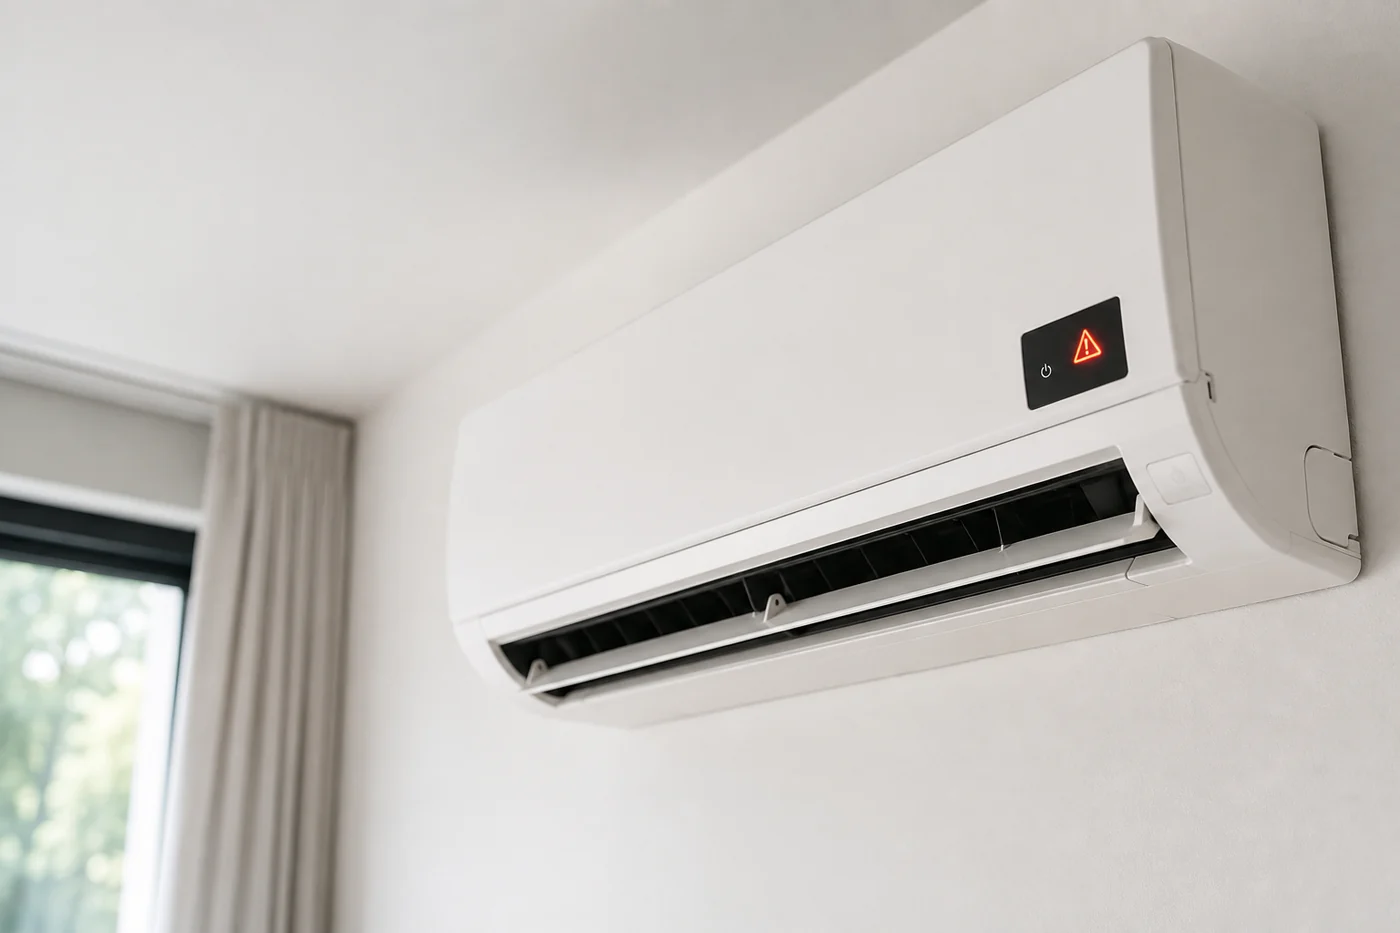
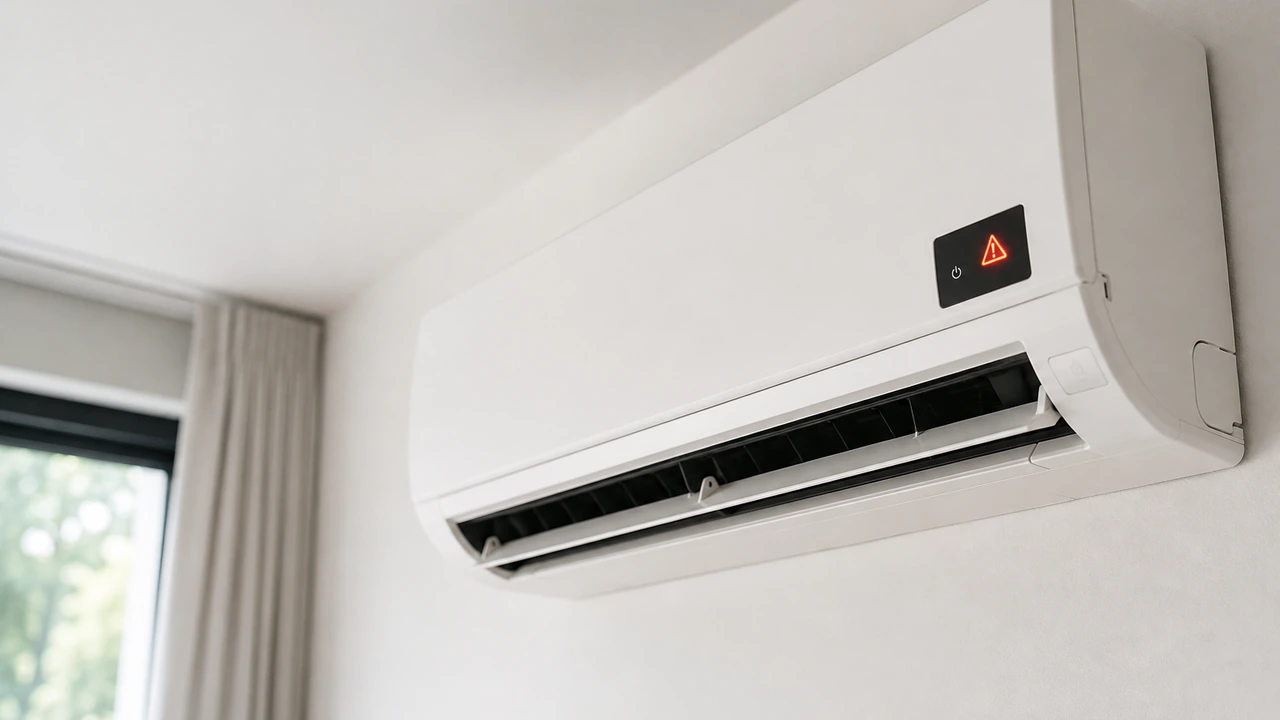
Add files via upload

diff --git a/index.html b/index.html
@@ -3,11 +3,11 @@
 <head>
   <meta charset="utf-8">
   <meta name="viewport" content="width=device-width, initial-scale=1">
-  <title>Airco installateur door heel Nederland | KTS-Klimaat</title>
-  <meta name="description" content="KTS-Klimaat installeert, vervangt en onderhoudt airco’s door heel Nederland. Persoonlijk advies, nette afwerking en een vrijblijvende offerte.">
+  <title>KTS-Klimaat | Airco installatie, onderhoud en advies</title>
+  <meta name="description" content="KTS-Klimaat voor professionele airco-installatie, vervanging, onderhoud en storingen. Vraag vrijblijvend een offerte aan.">
   <meta name="theme-color" content="#0b4b8f">
   <meta property="og:title" content="KTS-Klimaat | Comfort in huis, het hele jaar door">
-  <meta property="og:description" content="Airco-installatie, vervanging, onderhoud en service door heel Nederland.">
+  <meta property="og:description" content="Professionele airco-installatie, onderhoud en advies van KTS-Klimaat.">
   <meta property="og:type" content="website">
   <link rel="icon" href="assets/favicon.svg" type="image/svg+xml">
   <link rel="stylesheet" href="styles.css">
@@ -39,12 +39,12 @@
     <section class="hero" id="airco">
       <div class="container hero-grid">
         <div class="hero-copy">
-          <p class="eyebrow">Comfort in huis, het hele jaar door</p>
-          <h1>Airco laten installeren</h1>
-          <p class="hero-lead"><strong>KTS-Klimaat</strong> verzorgt airco-installatie, vervanging, onderhoud en advies voor woningen en bedrijfsruimtes door heel Nederland.</p>
+          <p class="eyebrow">Airco installatie & onderhoud</p>
+          <h1>Comfort in huis,<br>het hele jaar door.</h1>
+          <p class="hero-lead">Professionele airco-installatie, onderhoud en advies van KTS-Klimaat.</p>
           <div class="hero-actions">
             <a class="btn btn-primary" href="#offerte">Gratis offerte aanvragen</a>
-            <a class="btn btn-secondary" href="tel:+31619898619">Bel 06 19 89 86 19</a>
+            <a class="btn btn-secondary" href="#contact">Contact opnemen</a>
           </div>
         </div>
         <div class="hero-media" role="img" aria-label="Moderne woonkamer met wandairco"></div>
@@ -86,7 +86,7 @@
           </article>
 
           <article class="service-card">
-            <img src="assets/service-2.webp" alt="Buitenunit van een aircosysteem" loading="lazy">
+            <img src="assets/service-2.webp" alt="Wandairco in een woning" loading="lazy">
             <div class="service-body">
               <h3>Airco vervangen</h3>
               <p>Een verouderd systeem vervangen door een moderne en efficiënte oplossing.</p>
@@ -95,7 +95,7 @@
           </article>
 
           <article class="service-card" id="onderhoud">
-            <img src="assets/service-3.webp" alt="Onderhoud aan een airco" loading="lazy">
+            <img src="assets/service-3.webp" alt="Wandairco in een woning" loading="lazy">
             <div class="service-body">
               <h3>Onderhoud & reiniging</h3>
               <p>Voor een gezond binnenklimaat, betrouwbare werking en een langere levensduur.</p>
@@ -126,7 +126,7 @@
             <div class="benefit"><span>✓</span><div><h3>Betrouwbaar</h3><p>Duidelijke afspraken en een nette uitvoering.</p></div></div>
             <div class="benefit"><span>✦</span><div><h3>Nette afwerking</h3><p>Oog voor detail, zowel binnen als buiten.</p></div></div>
             <div class="benefit"><span>◎</span><div><h3>Persoonlijk contact</h3><p>Korte lijnen en advies dat past bij jouw situatie.</p></div></div>
-            <div class="benefit"><span>↗</span><div><h3>Door heel Nederland</h3><p>KTS-Klimaat voert werkzaamheden uit door heel Nederland.</p></div></div>
+            <div class="benefit"><span>⚡</span><div><h3>Snelle service</h3><p>We reageren duidelijk en schakelen praktisch.</p></div></div>
           </div>
         </div>
 
@@ -150,7 +150,7 @@
         <div class="quote-copy">
           <p class="eyebrow">Vrijblijvend aanvragen</p>
           <h2>Offerte aanvragen</h2>
-          <p>Vul het formulier in met je gegevens en een korte omschrijving van je aanvraag. We nemen daarna persoonlijk contact met je op.</p>
+          <p>Vul het formulier in. Bij verzenden wordt er een e-mail voor je klaargezet aan KTS-Klimaat.</p>
           <ul class="check-list">
             <li>Vrijblijvende aanvraag</li>
             <li>Persoonlijk advies</li>
@@ -188,9 +188,8 @@
       </div>
       <div>
         <h2>Contact</h2>
-        <a href="tel:+31619898619">06 19 89 86 19</a>
         <a href="mailto:info@kts-klimaat.nl">info@kts-klimaat.nl</a>
-        <p>Werkgebied: heel Nederland</p>
+        <p>Voor offertes, onderhoud en vragen.</p>
       </div>
       <div>
         <h2>Diensten</h2>

diff --git a/airco-onderhoud/index.html b/airco-onderhoud/index.html
@@ -23,7 +23,7 @@
     <div class="container"><nav class="breadcrumbs" aria-label="Kruimelpad"><a href="../">Home</a><span>›</span><a href="../#diensten">Diensten</a><span>›</span><span aria-current="page">Onderhoud &amp; reiniging</span></nav></div>
     <div class="container service-hero-grid">
       <div class="service-hero-copy"><p class="eyebrow">Onderhoud &amp; reiniging</p><h1>Airco onderhoud en reiniging</h1><p class="hero-lead">Regelmatig onderhoud helpt om je airco schoon en betrouwbaar te houden. We controleren de installatie en reinigen onderdelen die tijdens normaal gebruik stof en vervuiling verzamelen.</p><div class="hero-actions"><a class="btn btn-primary" href="../#offerte">Vrijblijvend aanvragen</a><a class="btn btn-secondary" href="mailto:info@kts-klimaat.nl">E-mail KTS-Klimaat</a></div></div>
-      <div class="service-hero-image"><img src="../assets/service-3.webp" alt="Reiniging en onderhoud van een wandairco"></div>
+      <div class="service-hero-image"><img src="../assets/service-3.webp" alt="Wandairco in woonruimte"></div>
     </div>
   </section>
 
@@ -40,7 +40,7 @@
 <footer class="site-footer" id="contact">
   <div class="container footer-grid">
     <div><a class="brand footer-brand brand-image-link" href="../" aria-label="KTS-Klimaat home"><img class="brand-logo footer-logo" src="../assets/kts-logo.webp" alt="KTS Klimaat Technische Systemen Airconditioning"></a><p>Professionele airco-installatie, onderhoud en advies voor een comfortabel binnenklimaat.</p></div>
-    <div><h2>Contact</h2><a href="tel:+31619898619">06 19 89 86 19</a><a href="mailto:info@kts-klimaat.nl">info@kts-klimaat.nl</a><p>Werkgebied: heel Nederland</p></div>
+    <div><h2>Contact</h2><a href="mailto:info@kts-klimaat.nl">info@kts-klimaat.nl</a><p>Voor offertes, onderhoud en vragen.</p></div>
     <div><h2>Diensten</h2><a href="../airco-installeren/">Airco installeren</a><a href="../airco-vervangen/">Airco vervangen</a><a href="../airco-onderhoud/">Onderhoud & reiniging</a><a href="../airco-storing/">Storingen</a></div>
     <div><h2>Overig</h2><a href="../#over-ons">Over ons</a><a href="../#offerte">Offerte aanvragen</a><a href="../privacy.html">Privacyverklaring</a></div>
   </div>

diff --git a/airco-vervangen/index.html b/airco-vervangen/index.html
@@ -23,7 +23,7 @@
     <div class="container"><nav class="breadcrumbs" aria-label="Kruimelpad"><a href="../">Home</a><span>›</span><a href="../#diensten">Diensten</a><span>›</span><span aria-current="page">Airco vervangen</span></nav></div>
     <div class="container service-hero-grid">
       <div class="service-hero-copy"><p class="eyebrow">Airco vervangen</p><h1>Je bestaande airco vervangen</h1><p class="hero-lead">Is je huidige airco verouderd, werkt hij niet meer naar wens of wil je overstappen op een modern systeem? We bekijken wat er al aanwezig is en welke vervanging logisch is.</p><div class="hero-actions"><a class="btn btn-primary" href="../#offerte">Vrijblijvend aanvragen</a><a class="btn btn-secondary" href="mailto:info@kts-klimaat.nl">E-mail KTS-Klimaat</a></div></div>
-      <div class="service-hero-image"><img src="../assets/service-2.webp" alt="Buitenunit van een aircosysteem tijdens werkzaamheden"></div>
+      <div class="service-hero-image"><img src="../assets/service-2.webp" alt="Geïnstalleerde wandairco in woonruimte"></div>
     </div>
   </section>
 
@@ -40,7 +40,7 @@
 <footer class="site-footer" id="contact">
   <div class="container footer-grid">
     <div><a class="brand footer-brand brand-image-link" href="../" aria-label="KTS-Klimaat home"><img class="brand-logo footer-logo" src="../assets/kts-logo.webp" alt="KTS Klimaat Technische Systemen Airconditioning"></a><p>Professionele airco-installatie, onderhoud en advies voor een comfortabel binnenklimaat.</p></div>
-    <div><h2>Contact</h2><a href="tel:+31619898619">06 19 89 86 19</a><a href="mailto:info@kts-klimaat.nl">info@kts-klimaat.nl</a><p>Werkgebied: heel Nederland</p></div>
+    <div><h2>Contact</h2><a href="mailto:info@kts-klimaat.nl">info@kts-klimaat.nl</a><p>Voor offertes, onderhoud en vragen.</p></div>
     <div><h2>Diensten</h2><a href="../airco-installeren/">Airco installeren</a><a href="../airco-vervangen/">Airco vervangen</a><a href="../airco-onderhoud/">Onderhoud & reiniging</a><a href="../airco-storing/">Storingen</a></div>
     <div><h2>Overig</h2><a href="../#over-ons">Over ons</a><a href="../#offerte">Offerte aanvragen</a><a href="../privacy.html">Privacyverklaring</a></div>
   </div>

diff --git a/airco-storing/index.html b/airco-storing/index.html
@@ -23,7 +23,7 @@
     <div class="container"><nav class="breadcrumbs" aria-label="Kruimelpad"><a href="../">Home</a><span>›</span><a href="../#diensten">Diensten</a><span>›</span><span aria-current="page">Airco storing</span></nav></div>
     <div class="container service-hero-grid">
       <div class="service-hero-copy"><p class="eyebrow">Airco storing</p><h1>Problemen met je airco?</h1><p class="hero-lead">Geeft je airco een foutmelding, koelt of verwarmt hij niet goed, maakt hij vreemd geluid of werkt hij helemaal niet meer? Beschrijf zo precies mogelijk wat je merkt.</p><div class="hero-actions"><a class="btn btn-primary" href="../#offerte">Vrijblijvend aanvragen</a><a class="btn btn-secondary" href="mailto:info@kts-klimaat.nl">E-mail KTS-Klimaat</a></div></div>
-      <div class="service-hero-image"><img src="../assets/service-4.webp" alt="Wandairco met storingsmelding"></div>
+      <div class="service-hero-image"><img src="../assets/service-4.webp" alt="Monteur controleert een wandairco"></div>
     </div>
   </section>
 
@@ -40,7 +40,7 @@
 <footer class="site-footer" id="contact">
   <div class="container footer-grid">
     <div><a class="brand footer-brand brand-image-link" href="../" aria-label="KTS-Klimaat home"><img class="brand-logo footer-logo" src="../assets/kts-logo.webp" alt="KTS Klimaat Technische Systemen Airconditioning"></a><p>Professionele airco-installatie, onderhoud en advies voor een comfortabel binnenklimaat.</p></div>
-    <div><h2>Contact</h2><a href="tel:+31619898619">06 19 89 86 19</a><a href="mailto:info@kts-klimaat.nl">info@kts-klimaat.nl</a><p>Werkgebied: heel Nederland</p></div>
+    <div><h2>Contact</h2><a href="mailto:info@kts-klimaat.nl">info@kts-klimaat.nl</a><p>Voor offertes, onderhoud en vragen.</p></div>
     <div><h2>Diensten</h2><a href="../airco-installeren/">Airco installeren</a><a href="../airco-vervangen/">Airco vervangen</a><a href="../airco-onderhoud/">Onderhoud & reiniging</a><a href="../airco-storing/">Storingen</a></div>
     <div><h2>Overig</h2><a href="../#over-ons">Over ons</a><a href="../#offerte">Offerte aanvragen</a><a href="../privacy.html">Privacyverklaring</a></div>
   </div>
